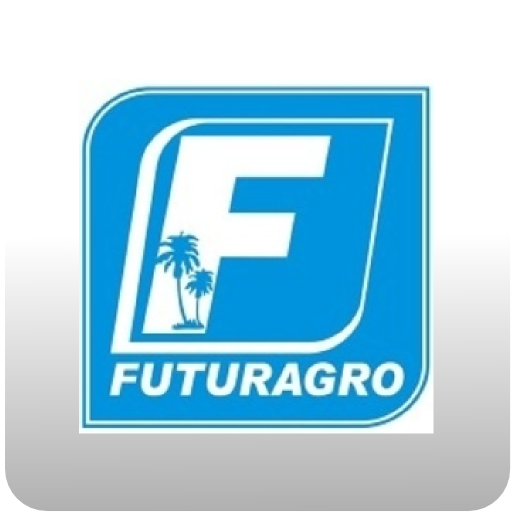
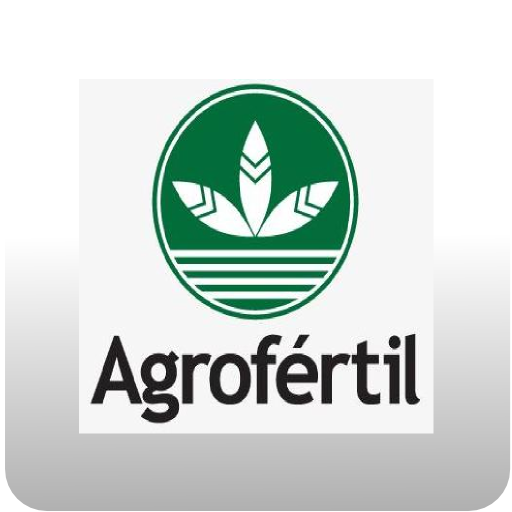
{"appId":"95","shortcut":"auto","pgBuildId":"1656033","datetime":"2016-08-07 15:36:39"}

diff --git a/datos.js b/datos.js
@@ -1,1 +1,1 @@
-var appo = {"id":1,"path":"\/var\/www\/apps\/app-auto92","domain":"http:\/\/cloud.cloudcrm.tech\/appAuth.php?hash=64b14423456c051063d71af87a58b7bc&app=auto92","version":null,"a4pp_dir":"\/var\/www\/apps\/","disableLog":false,"space":"apps\/app-auto92","appHeader":"#ffffff","appHeaderColor":"#ffffff","appVersion":1,"appName":"Custom App","appDomain":"auto92.cloudcrm.tech","appUser":null,"addCss":"\n\/* - Version 0 - *\/\n.material-bar,.navbar.navbar-inverse{\n\tbackground:#ffffff;\n\tbackground: #ff3019;\n\tbackground: -moz-linear-gradient(top, #ffffff 0%, #ffffff 100%);\n\tbackground: -webkit-gradient(linear, left top, left bottom, color-stop(0%,#ffffff), color-stop(100%,#ffffff));\n\tbackground: -webkit-linear-gradient(top, #ffffff 0%,#ffffff 100%);\n\tbackground: -o-linear-gradient(top, #ffffff 0%,#ffffff 100%);\n\tbackground: linear-gradient(to bottom, #ffffff 0%,#ffffff 100%);\n\tcolor:#ffffff;\n}\n.material-bar .navbar-item{\n\tcolor:#ffffff;\n}","lang":"es","runJS":"console.log(\"Callback\");","templates":{"header":"<table border=\"0\" cellpadding=\"0\" cellspacing=\"0\" class='table'>\r\n\t<tr>\r\n\t\t<td>\r\n\t\t<a onclick='goBack();' class=\"navbar-item\">\r\n\t\t\t<span class=\"glyphicon glyphicon-triangle-left\"><\/span>\r\n\t\t<\/a>\r\n\t\t<\/td>\r\n\t\t<td style='width:100%'>\r\n\t\t<a onclick='goBack();' class=\"navbar-item\">\r\n\t\t\t<% if(this.logo!=undefined){ %>\r\n\t\t\t\t<img src='<% this.logo %>' class='appLogo'>\r\n\t\t\t<% }else{ %>\r\n\t\t\t\t<% this.title %>\r\n\t\t\t<% } %>\r\n\t\t<\/a>\r\n\t\t<\/td>\r\n\t\t<% for(var item in this.headerItems){ %>\r\n\t\t\t<td>\r\n\t\t\t\t<a class=\"navbar-item\" onclick='<% this.headerItems[item].func %>'><span id='updateIcon' class=\"glyphicon glyphicon-<% this.headerItems[item].icon %>\"><\/span><\/a>\r\n\t\t\t<\/td>\r\n\t\t<% } %>\r\n\t\t<% if(this.menu.length > 0){ %>\r\n\t\t<td>\r\n\t\t\t<a class=\"navbar-item\" onclick='toggleMenu();'><span class=\"glyphicon glyphicon-option-vertical\"><\/span><\/a>\r\n\t\t<\/td>\r\n\t\t<% } %>\r\n\t<\/tr>\r\n<\/table>\r\n"},"download_images":[],"based":"base","onRememberLoaded":"console.log('onRememberLoaded triggered');","title":"Futuragro","model":"login","items":null,"details":"","icon":null,"callback":null,"glyphicon":"none","color":"silver","menu":[{"title":"LOGIN","onclick":"a4pp_login_form();"}],"headerItems":[],"async":false,"xpath":"","hidden":0,"url":"http:\/\/cloud.cloudcrm.tech\/appAuth.php?hash=64b14423456c051063d71af87a58b7bc&app=auto92","appHeader2":"#ffffff","appTitle":"Futuragro","logged":false,"errmsg":"","download_url":"http:\/\/cloud.cloudcrm.tech\/appAuth.php?ss=bnVsbA==&hash=46ad73c39e4bcc964556bddd1709700d&app=auto92","update_url":"http:\/\/cloud.cloudcrm.tech\/appAuth.php?ss=bnVsbA==&hash=46ad73c39e4bcc964556bddd1709700d&app=auto92","md5":"af78aabbcfe144ee3af101a4e80b1350"};
+var appo = {"id":1,"path":"\/var\/www\/apps\/app-auto93","domain":"http:\/\/cloud.cloudcrm.tech\/appAuth.php?hash=4983143a712971b071a958ee7cb46ff7&app=auto93","version":null,"a4pp_dir":"\/var\/www\/apps\/","disableLog":false,"space":"apps\/app-auto93","appHeader":"#ffffff","appHeaderColor":"#ffffff","appVersion":1,"appName":"Custom App","appDomain":"auto93.cloudcrm.tech","appUser":null,"addCss":"\n\/* - Version 0 - *\/\n.material-bar,.navbar.navbar-inverse{\n\tbackground:#ffffff;\n\tbackground: #ff3019;\n\tbackground: -moz-linear-gradient(top, #ffffff 0%, #ffffff 100%);\n\tbackground: -webkit-gradient(linear, left top, left bottom, color-stop(0%,#ffffff), color-stop(100%,#ffffff));\n\tbackground: -webkit-linear-gradient(top, #ffffff 0%,#ffffff 100%);\n\tbackground: -o-linear-gradient(top, #ffffff 0%,#ffffff 100%);\n\tbackground: linear-gradient(to bottom, #ffffff 0%,#ffffff 100%);\n\tcolor:#ffffff;\n}\n.material-bar .navbar-item{\n\tcolor:#ffffff;\n}","lang":"es","runJS":"console.log(\"Callback\");","templates":{"header":"<table border=\"0\" cellpadding=\"0\" cellspacing=\"0\" class='table'>\r\n\t<tr>\r\n\t\t<td>\r\n\t\t<a onclick='goBack();' class=\"navbar-item\">\r\n\t\t\t<span class=\"glyphicon glyphicon-triangle-left\"><\/span>\r\n\t\t<\/a>\r\n\t\t<\/td>\r\n\t\t<td style='width:100%'>\r\n\t\t<a onclick='goBack();' class=\"navbar-item\">\r\n\t\t\t<% if(this.logo!=undefined){ %>\r\n\t\t\t\t<img src='<% this.logo %>' class='appLogo'>\r\n\t\t\t<% }else{ %>\r\n\t\t\t\t<% this.title %>\r\n\t\t\t<% } %>\r\n\t\t<\/a>\r\n\t\t<\/td>\r\n\t\t<% for(var item in this.headerItems){ %>\r\n\t\t\t<td>\r\n\t\t\t\t<a class=\"navbar-item\" onclick='<% this.headerItems[item].func %>'><span id='updateIcon' class=\"glyphicon glyphicon-<% this.headerItems[item].icon %>\"><\/span><\/a>\r\n\t\t\t<\/td>\r\n\t\t<% } %>\r\n\t\t<% if(this.menu.length > 0){ %>\r\n\t\t<td>\r\n\t\t\t<a class=\"navbar-item\" onclick='toggleMenu();'><span class=\"glyphicon glyphicon-option-vertical\"><\/span><\/a>\r\n\t\t<\/td>\r\n\t\t<% } %>\r\n\t<\/tr>\r\n<\/table>\r\n"},"download_images":[],"based":"base","onRememberLoaded":"console.log('onRememberLoaded triggered');","title":"Agrof\u00e9rtil","model":"login","items":null,"details":"","icon":null,"callback":null,"glyphicon":"none","color":"silver","menu":[{"title":"LOGIN","onclick":"a4pp_login_form();"}],"headerItems":[],"async":false,"xpath":"","hidden":0,"url":"http:\/\/cloud.cloudcrm.tech\/appAuth.php?hash=4983143a712971b071a958ee7cb46ff7&app=auto93","appHeader2":"#ffffff","appTitle":"Agrof\u00e9rtil","logged":false,"errmsg":"","download_url":"http:\/\/cloud.cloudcrm.tech\/appAuth.php?ss=bnVsbA==&hash=46ad73c39e4bcc964556bddd1709700d&app=auto93","update_url":"http:\/\/cloud.cloudcrm.tech\/appAuth.php?ss=bnVsbA==&hash=46ad73c39e4bcc964556bddd1709700d&app=auto93","md5":"729fbc6fa8a4ef15084c198adf65e30c"};

diff --git a/index.html b/index.html
@@ -4,12 +4,12 @@
 		<meta charset="UTF-8">
 		<meta name="viewport" content="width=device-width, initial-scale=1.0, user-scalable=no, maximum-scale=1.0">
 		<title>...</title>
-		<link rel="stylesheet" type="text/css" href="css/roboto/roboto.css?md=1470489027">
-		<link rel="stylesheet" type="text/css" href="css/bootstrap.min.css?md=1470489027">
-		<link rel="stylesheet" type="text/css" href="css/circles.css?md=1470489027">
-		<link rel="stylesheet" type="text/css" href="css/a4pp.css?md=1470489027">
-		<link rel="stylesheet" type="text/css" href="css/custom.css?md=1470489027">
-		<link rel="stylesheet" type="text/css" href="css/custom-app.css?md=1470489027">
+		<link rel="stylesheet" type="text/css" href="css/roboto/roboto.css?md=1470580598">
+		<link rel="stylesheet" type="text/css" href="css/bootstrap.min.css?md=1470580598">
+		<link rel="stylesheet" type="text/css" href="css/circles.css?md=1470580598">
+		<link rel="stylesheet" type="text/css" href="css/a4pp.css?md=1470580598">
+		<link rel="stylesheet" type="text/css" href="css/custom.css?md=1470580598">
+		<link rel="stylesheet" type="text/css" href="css/custom-app.css?md=1470580598">
 	</head>
 	<body>
 
@@ -70,18 +70,18 @@
 		<!-- scripts -->
 		<script src="cordova.js"></script>
         <script src="barcodescanner.js"></script>
-		<script src="js/fastclick.js?md=1470489027"></script>
-		<script src="datos.js?md=1470489027" type="text/javascript"></script>
-		<script src="js/apis.js?md=1470489027"></script>
-		<script src="js/a4pp.js?md=1470489027"></script>
+		<script src="js/fastclick.js?md=1470580598"></script>
+		<script src="datos.js?md=1470580598" type="text/javascript"></script>
+		<script src="js/apis.js?md=1470580598"></script>
+		<script src="js/a4pp.js?md=1470580598"></script>
         <script src="js/remember.js"></script>
         <script src="js/forms.js"></script>
-		<script src="js/app.js?md=1470489027"></script>
+		<script src="js/app.js?md=1470580598"></script>
 		<script src="js/watch.js"></script>
-		<script src="js/jquery.min.js?md=1470489027"></script>
-		<script src="js/jquery.signaturepad.min.js?md=1470489027"></script>
-		<script src="js/bootstrap.min.js?md=1470489027"></script>
-		<!-- File: /var/www/apps/auto92/app.js = bool(false)
+		<script src="js/jquery.min.js?md=1470580598"></script>
+		<script src="js/jquery.signaturepad.min.js?md=1470580598"></script>
+		<script src="js/bootstrap.min.js?md=1470580598"></script>
+		<!-- File: /var/www/apps/auto93/app.js = bool(false)
  --> 
 		        <script src="http://cloud.cloudcrm.tech:8080/socket.io/socket.io.js"></script>
         <script src="js/socket.io.app.js"></script>
